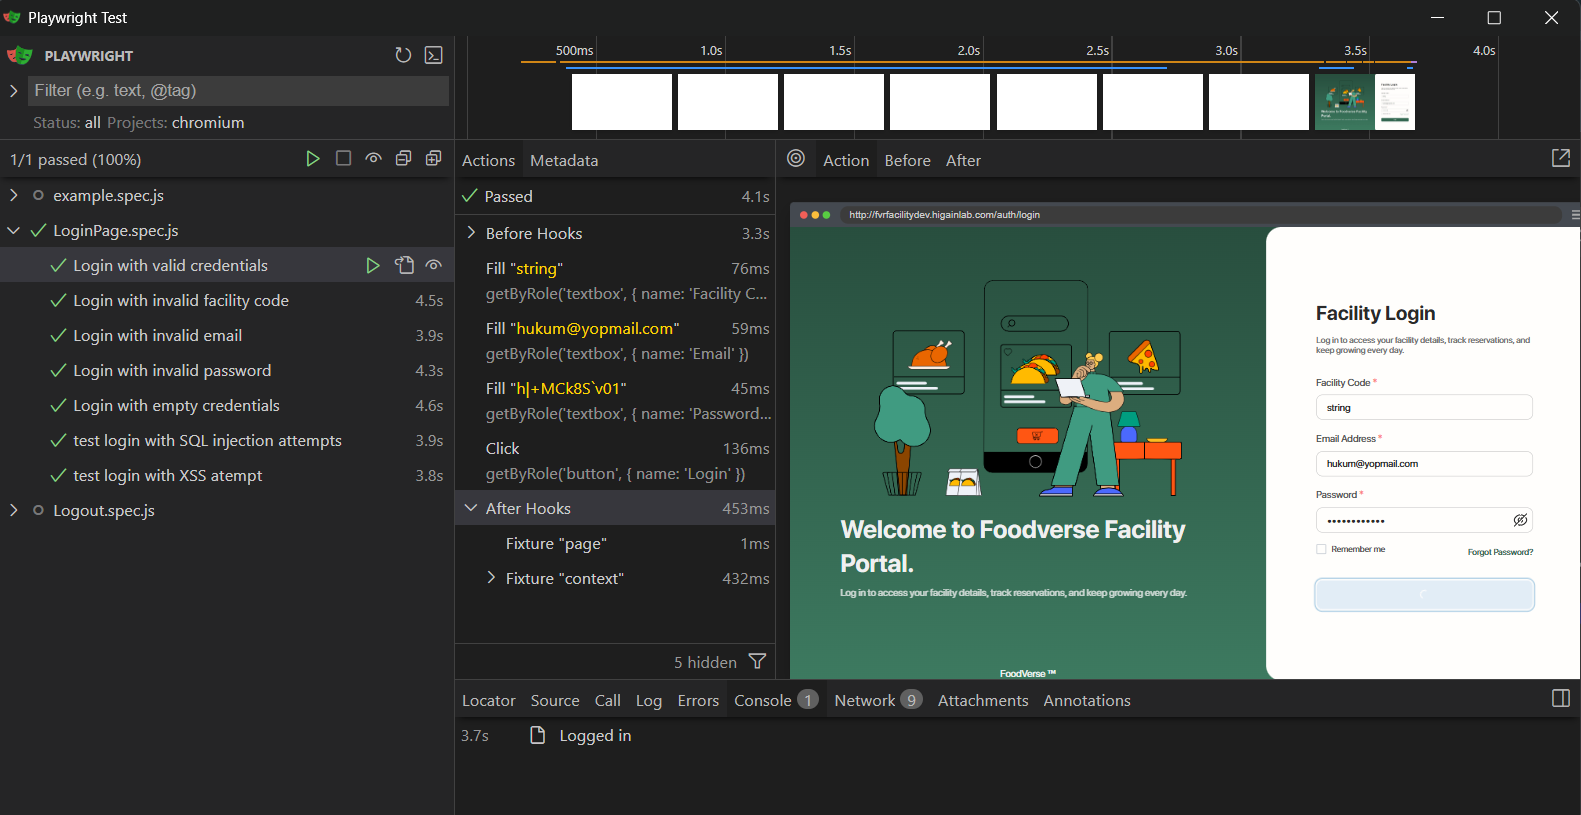
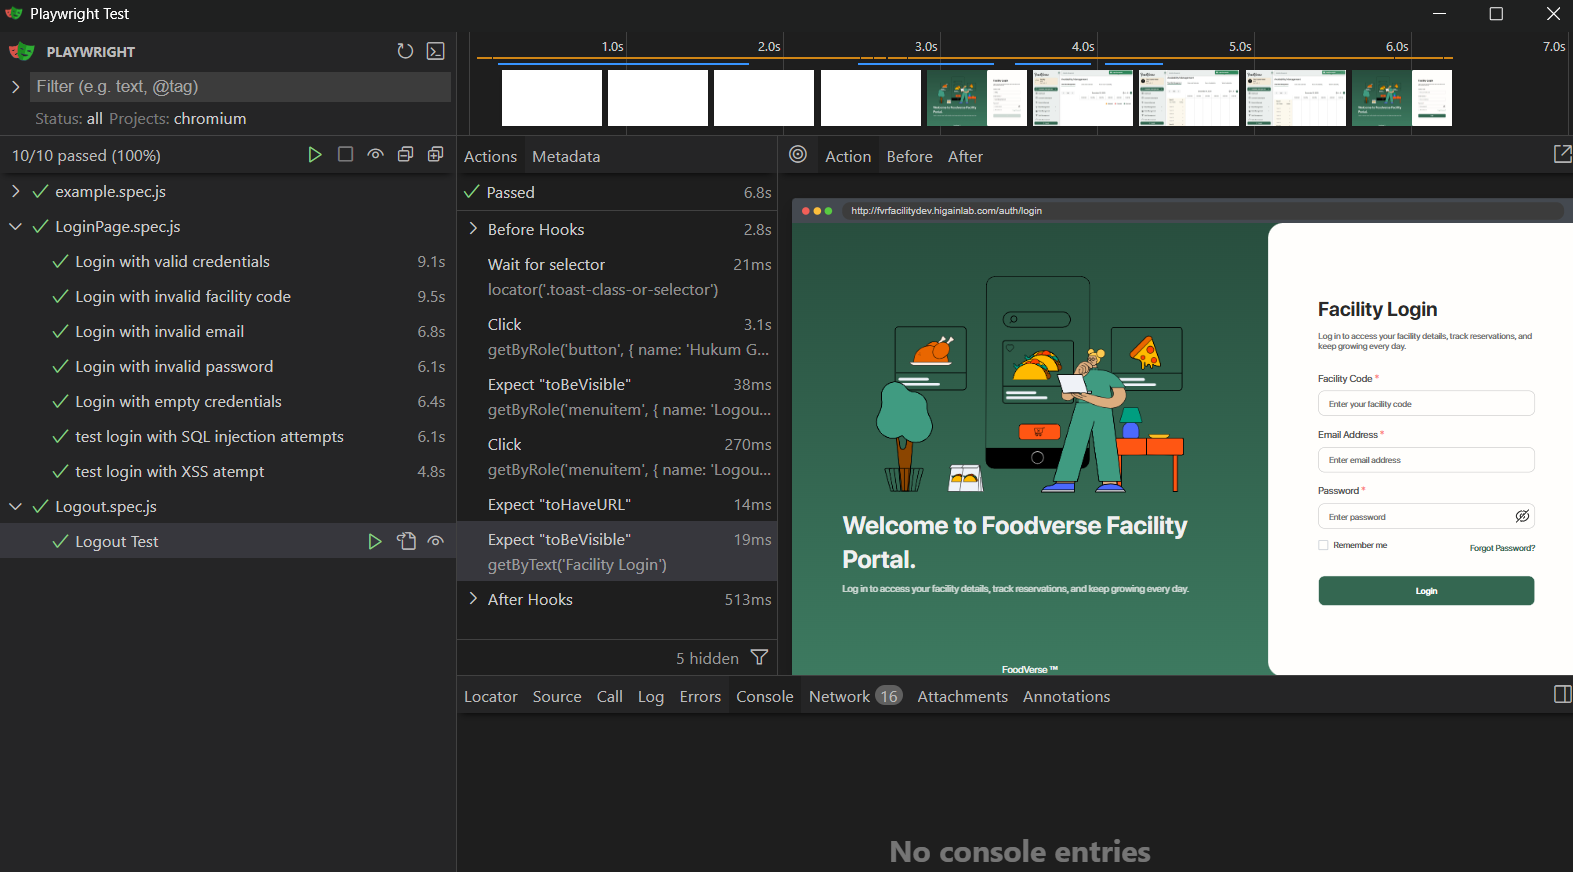
fixed locator for profile in logout test

diff --git a/tests/pages/LogoutPage.js b/tests/pages/LogoutPage.js
@@ -3,11 +3,12 @@ import { expect } from "@playwright/test";
 export class LogoutPage {
     constructor(page){
         this.page = page;
-        this.profileIcon = page.getByRole('button', { name: 'Profile'});
+        this.profileIcon = page.getByRole('button', { name: 'Hukum Gosain Admin'});
         this.logoutButton = page.getByRole('menuitem', { name: 'Logout' });
     }
 
     async clickProfileIcon(){
+        await this.page.locator('.toast-class-or-selector').waitFor({ state: 'detached' });
         await this.profileIcon.click();
         await expect(this.page.getByRole('menuitem', { name: 'Logout' })).toBeVisible();
     }
